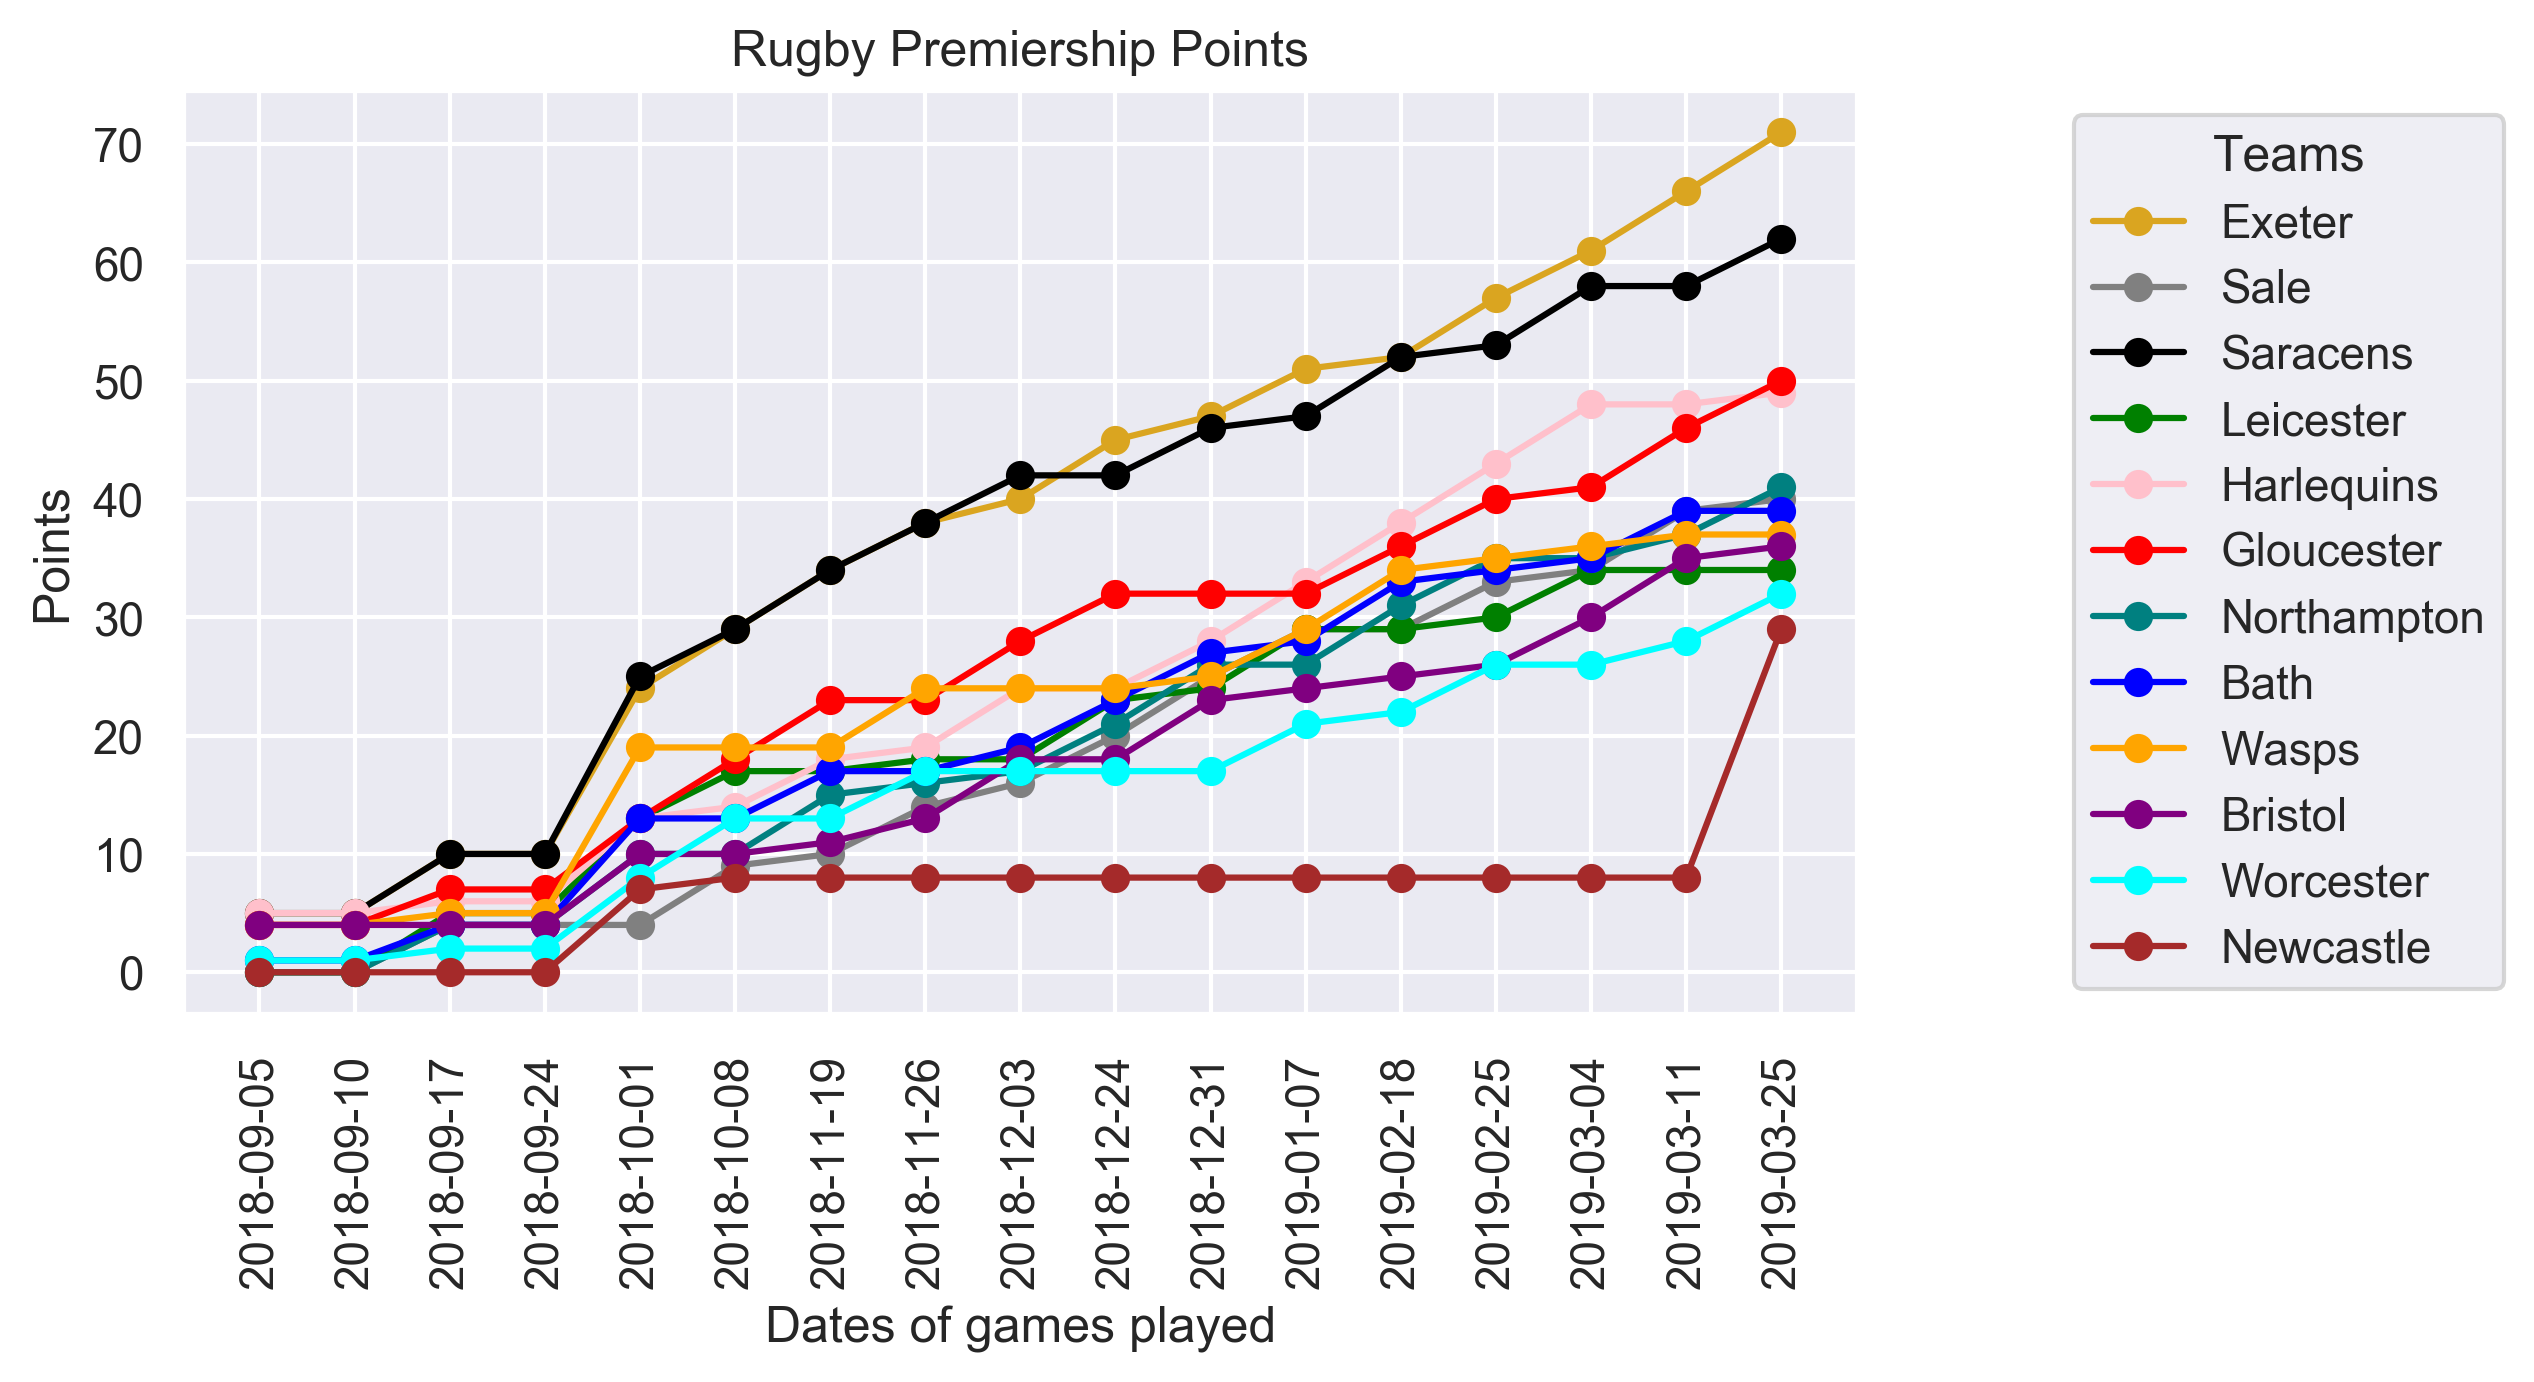
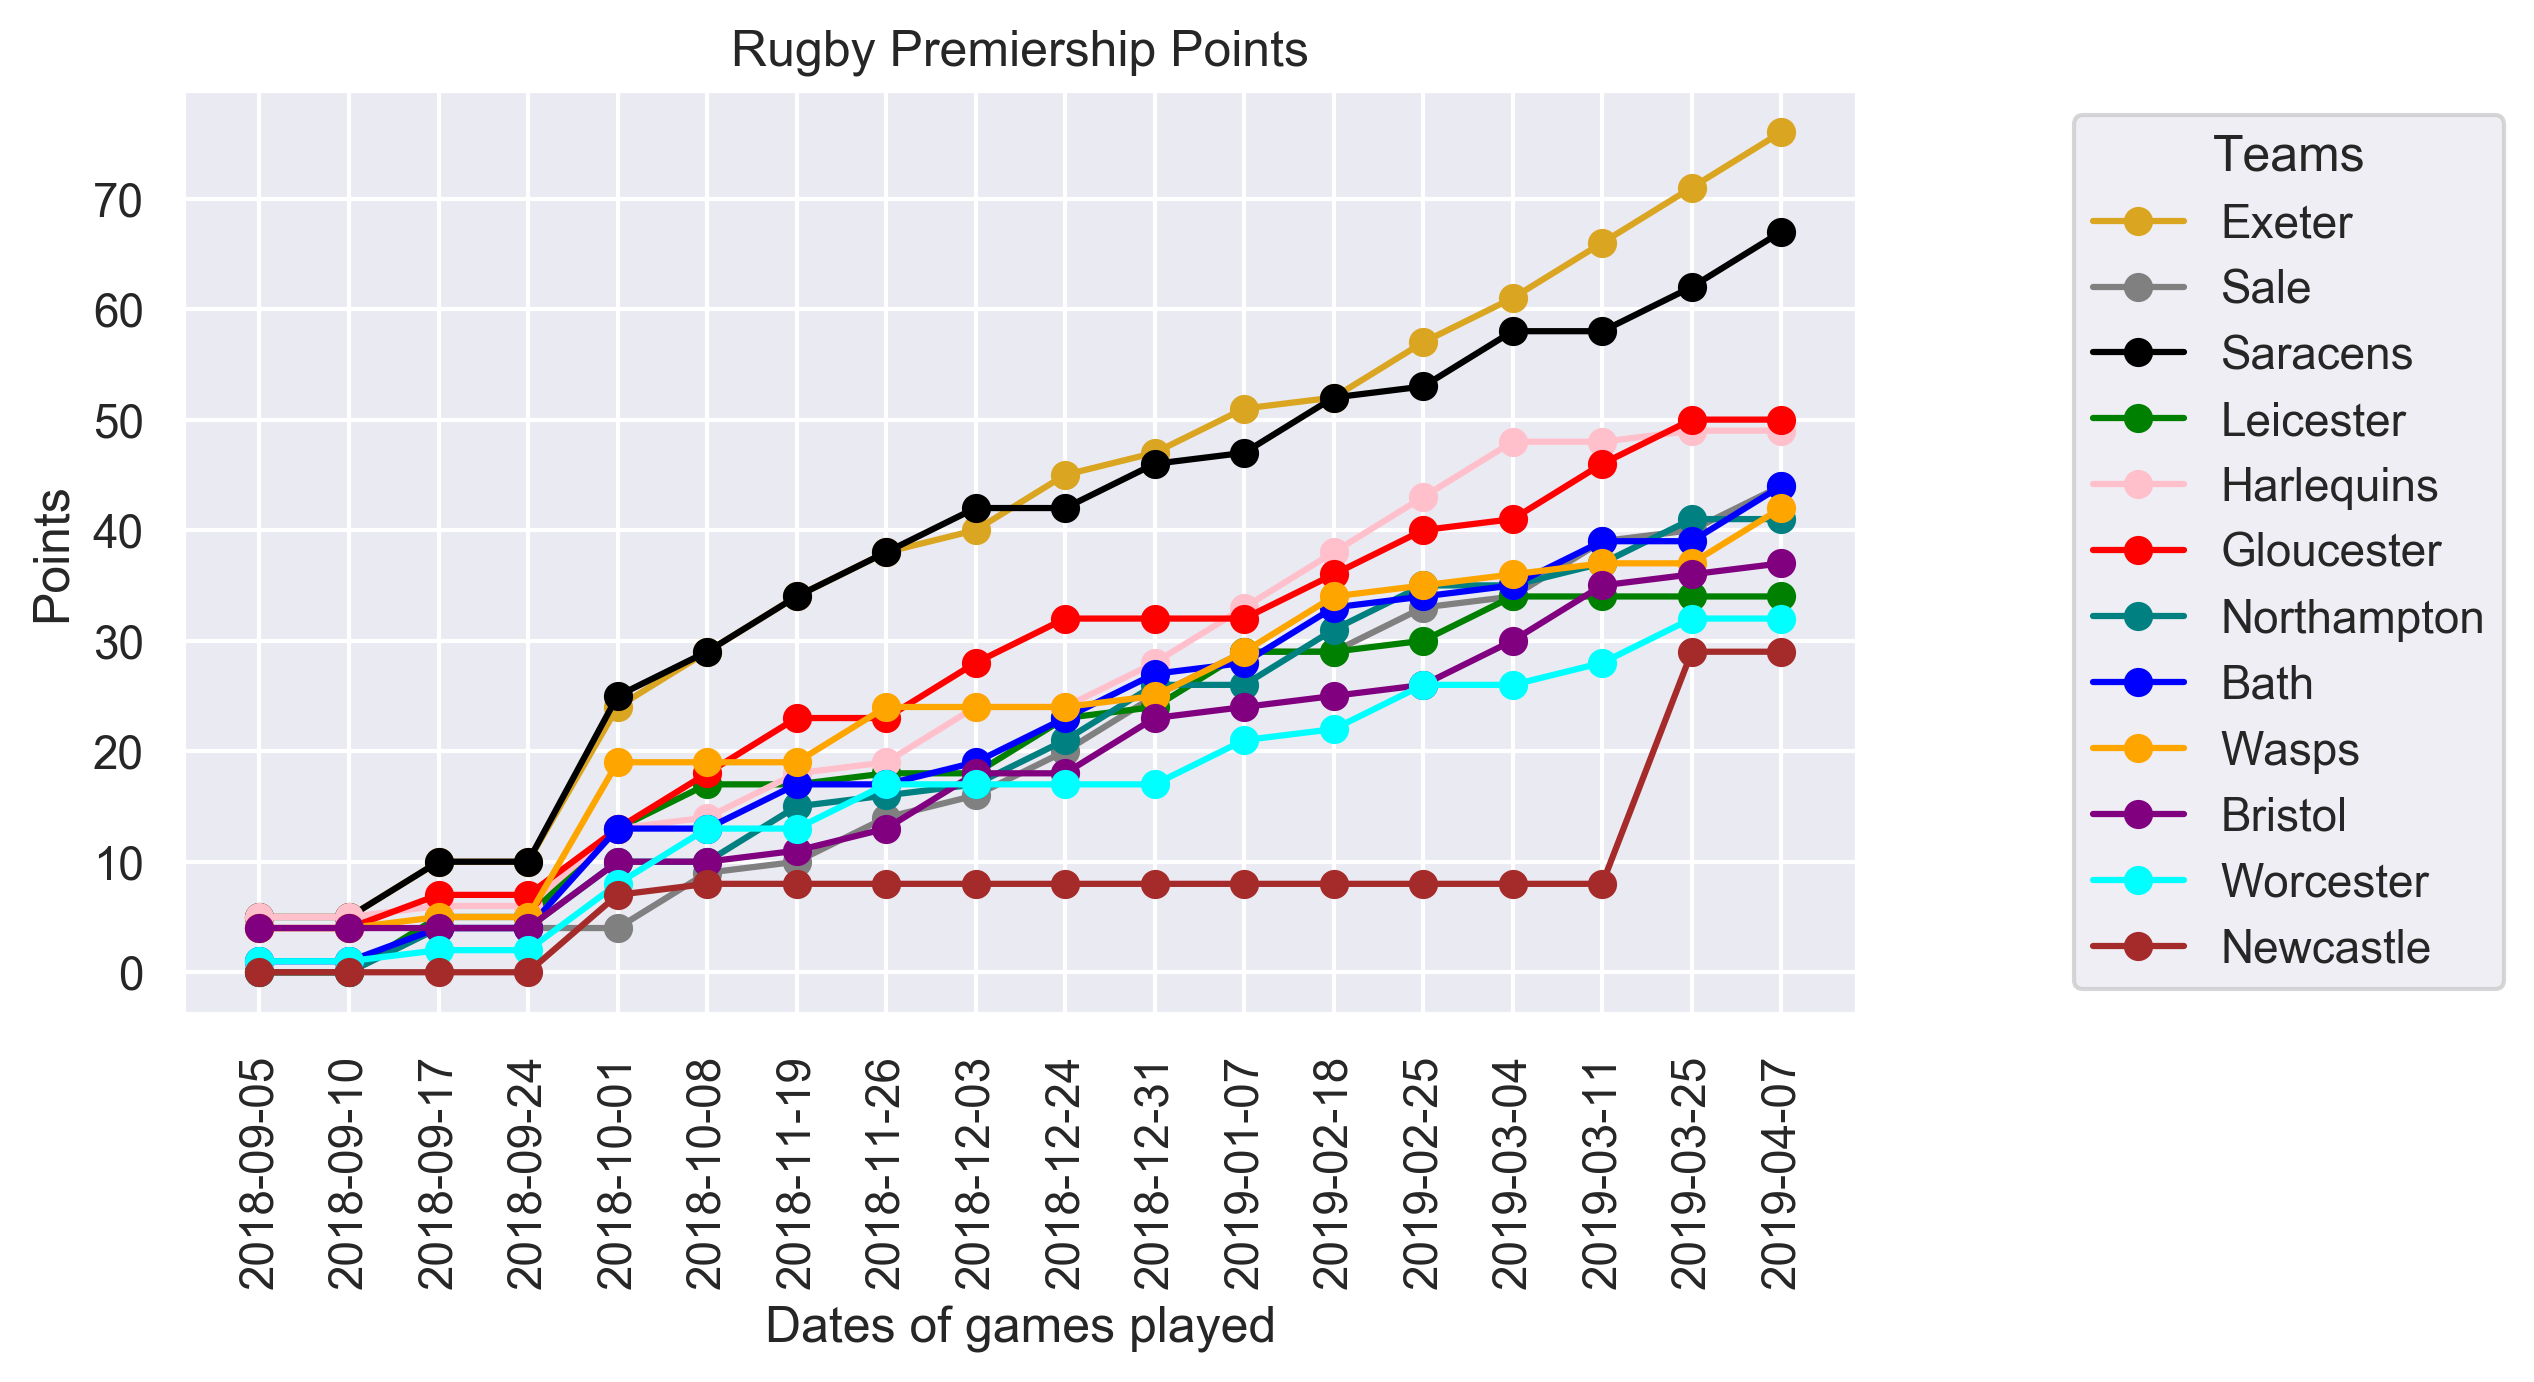
Update points table for 7th Apr

diff --git a/core.py b/core.py
@@ -33,9 +33,9 @@ def create_axis(file_list, feature):
             for item in jsonreader:
                 for team in teams:
                     if item['Team'] == team:
-                        teams[team].append(item[feature])
+                        teams[team].append(int(item[feature]))
 
     teams['x'] = x_axis
     return teams
 
-teams = create_axis(file_list, 'For')
+teams = create_axis(file_list, 'Points')
